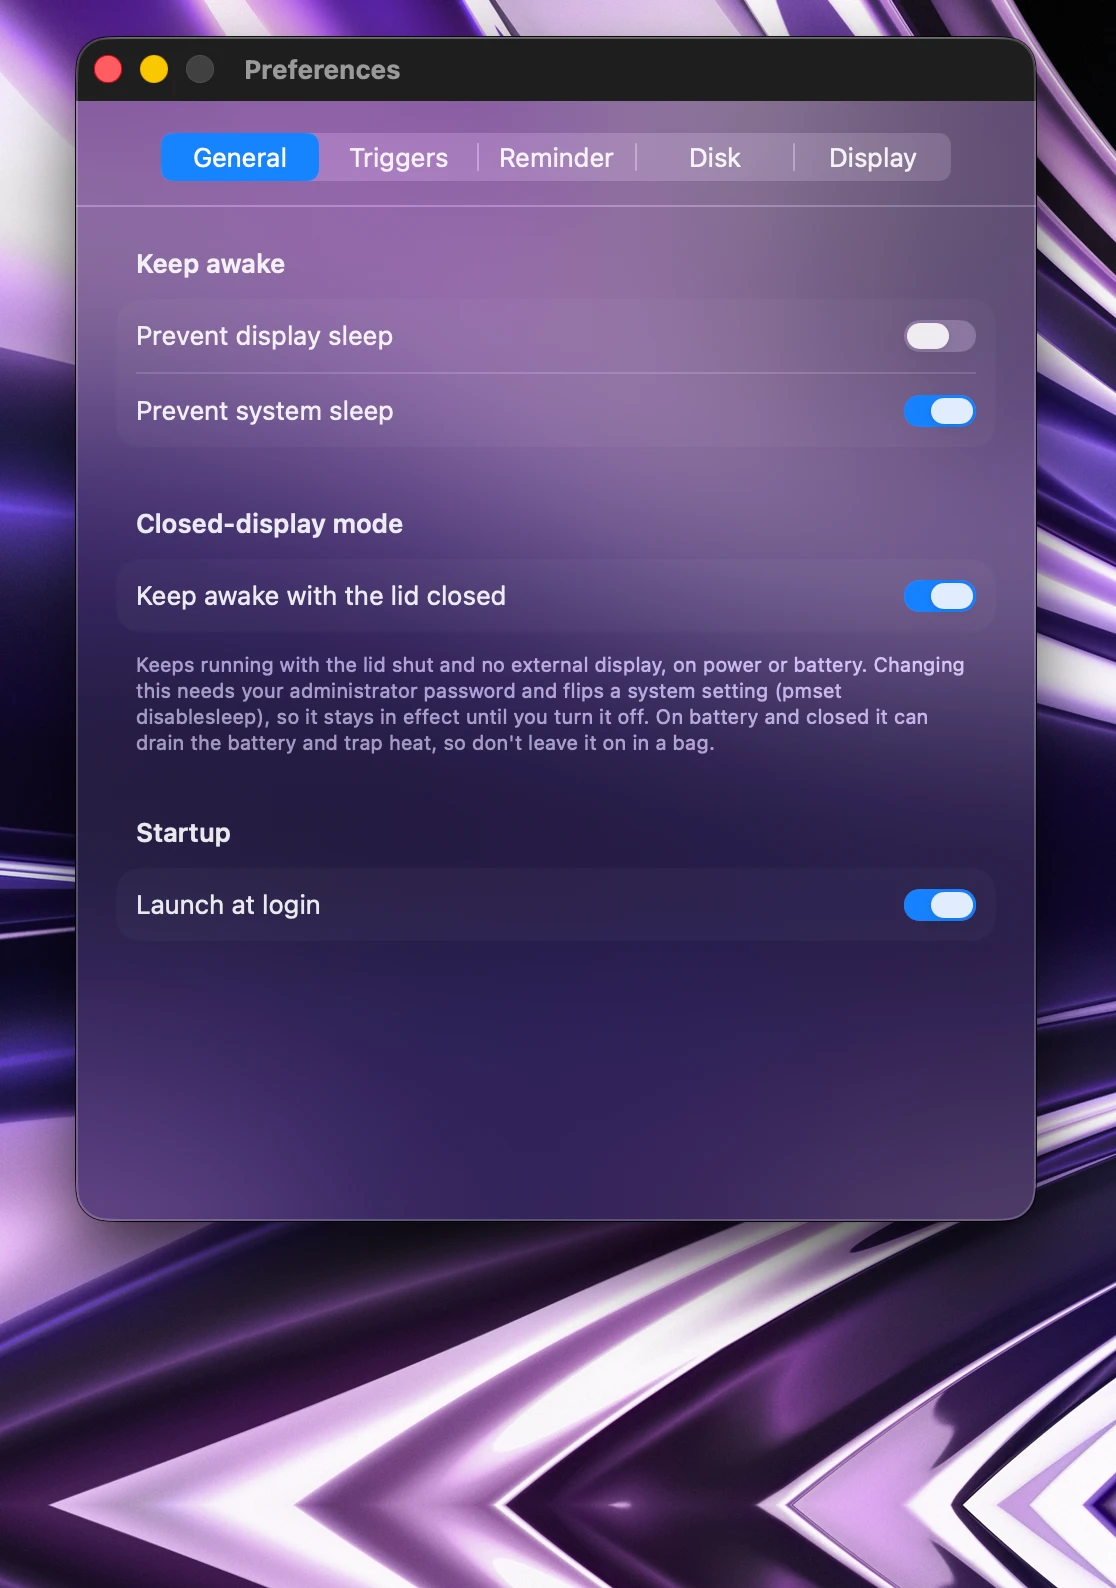
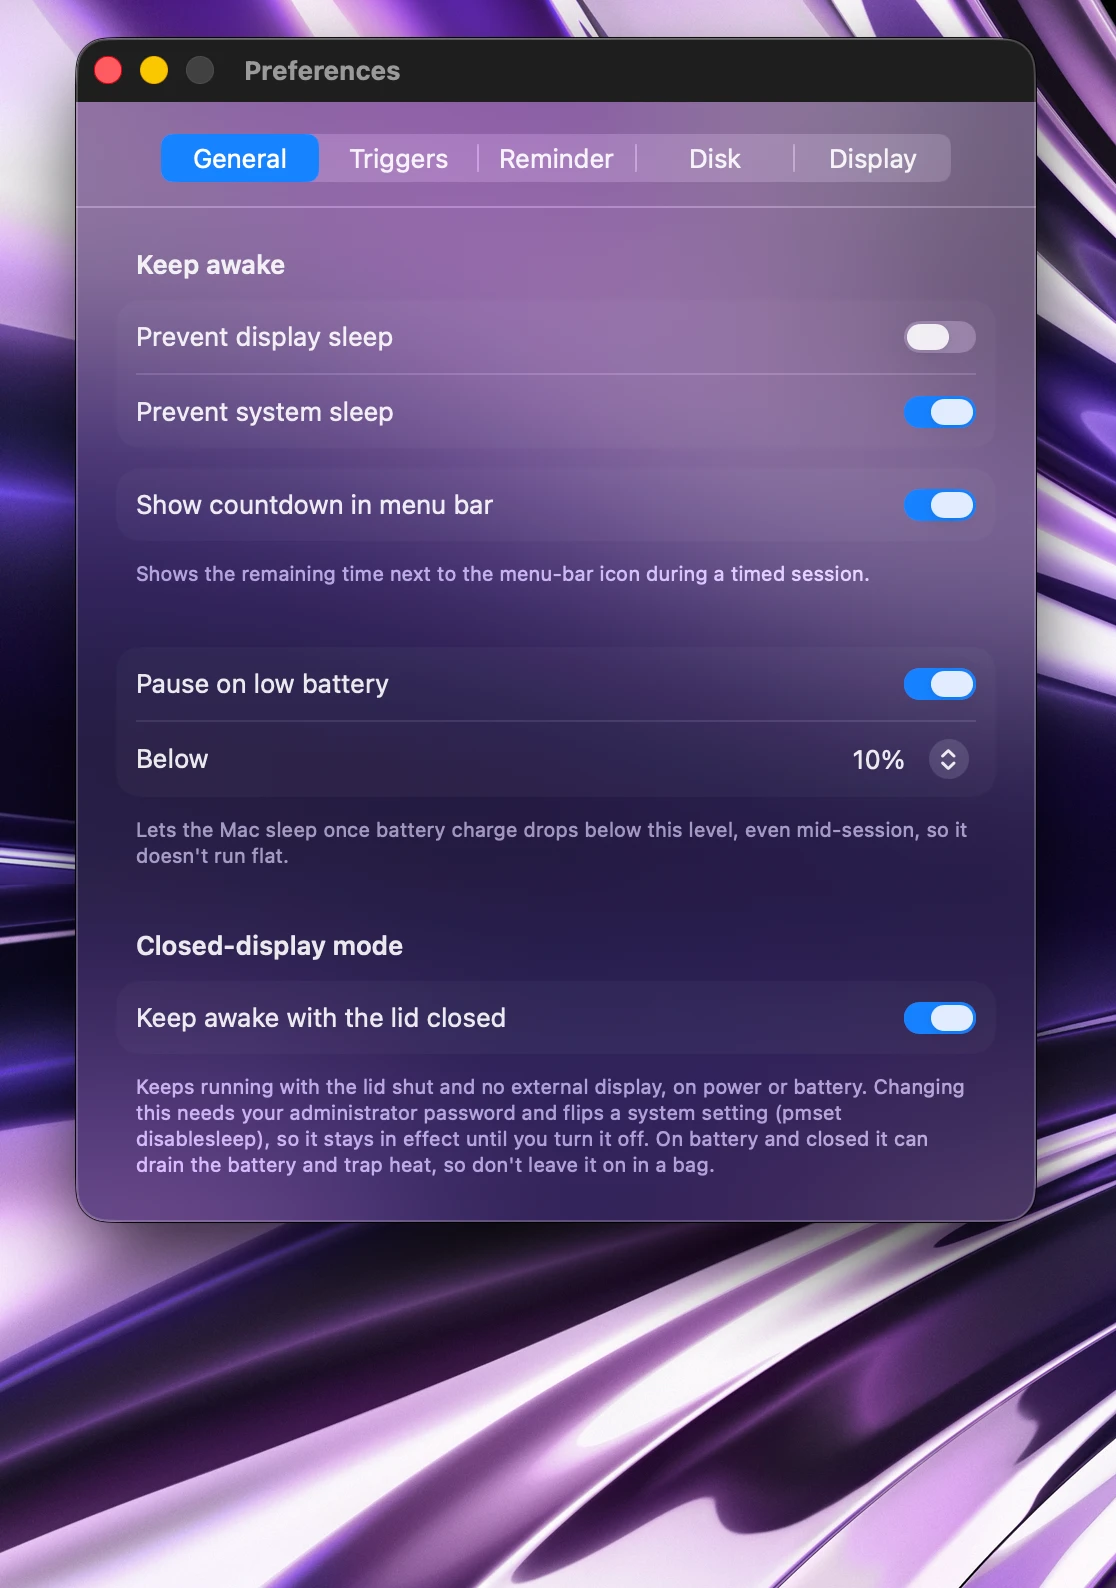
Update README screenshots for v1.1 features
Refresh the General tab screenshot to show the new countdown and
battery auto-pause toggles, reorder the screenshot table to match
the Preferences tab order (General, Triggers, Reminder, Display),
and update captions to mention presets and the new toggles.

diff --git a/README.md b/README.md
@@ -74,12 +74,12 @@ It lives quietly in the menu bar, no Dock icon, no clutter.
 <table>
 <tr>
 <td align="center" width="50%">
-  <img src="docs/assets/menu_triggers.webp" width="320" alt="Preferences: building a trigger rule set"><br>
-  <sub>Trigger engine: combine AC power, Wi-Fi, displays, and app conditions</sub>
+  <img src="docs/assets/menu_settings.webp" width="320" alt="Preferences: General tab with closed-display mode"><br>
+  <sub>General: keep-awake toggles, menu-bar countdown, battery auto-pause, closed-display mode, launch at login</sub>
 </td>
 <td align="center" width="50%">
-  <img src="docs/assets/menu_settings.webp" width="320" alt="Preferences: General tab with closed-display mode"><br>
-  <sub>General: keep-awake toggles, closed-display mode, launch at login</sub>
+  <img src="docs/assets/menu_triggers.webp" width="320" alt="Preferences: building a trigger rule set"><br>
+  <sub>Trigger engine: combine AC power, Wi-Fi, displays, and app conditions, or apply a preset</sub>
 </td>
 </tr>
 <tr>
